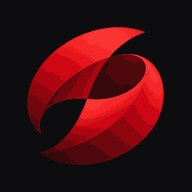
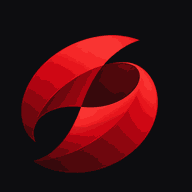
Optically centre the mark, because equal margins are not centred
Claude Desktop draws connector icons in a small dark rounded tile, and
FailEcho's sat high in it with a gap underneath. The bounding box was
exactly centred; the mark is an asymmetric crescent with a tail, so its
visual weight was about 3% right and 5% high. Invisible at full size,
obvious at 40 pixels.

The build now places the mark by weight rather than by box, and weights by
how far each pixel stands out from the dark ground rather than by opacity.
That distinction is the whole fix: the bright lobe pulls the eye far harder
than the dark tail, but both are equally opaque, so an opacity-weighted
correction came out at less than half what the eye was asking for. I
shipped that half-correction first and it was still visibly high.
apple-touch-icon went from x+2.9% y-4.3% to x-0.3% y-0.1%.

The shift is clamped to the reserved margin, so balance can never push a
stroke into a rounded corner.

test_the_square_icons_are_centred asserted equal margins, which is what I
had just deliberately broken, so it failed -- correctly. It now measures
where the weight is, allows a lopsided box, and keeps a floor of four
pixels on every side, because a mark jammed against an edge is the older
bug this test was written for. It also measures the same way the build
does; before, the test weighted by opacity and the build by contrast, and
the two disagreed by 2% while both claimed to centre the same icon.

Claude-Session: https://claude.ai/code/session_01RfRZmEaMiTrRNGhaab4aJv

Changed region(s): [[0.0938, 0.125, 0.875, 0.9062]]

diff --git a/tests/test_branding.py b/tests/test_branding.py
@@ -563,11 +563,23 @@ def test_openapi_description_leads_with_ai_agents(client):
 
 
 def test_the_square_icons_are_centred():
-    """The mark sits in the middle of every square icon.
+    """The mark *looks* like it sits in the middle of every square icon.
 
-    An off-centre master once went straight into the favicon, because faint
-    anti-aliasing made the whole canvas count as content and the build's trim
-    step did nothing. Measure visible pixels only, as the build now does.
+    Two separate bugs live here. An off-centre master once went straight into
+    the favicon, because faint anti-aliasing made the whole canvas count as
+    content and the build's trim step did nothing. Measure visible pixels
+    only, as the build does.
+
+    Then equal margins turned out not to mean centred. The mark is an
+    asymmetric crescent with a tail, so a perfectly centred bounding box put
+    its visual weight about 3% right and 5% high -- invisible at full size,
+    and plainly wrong in Claude Desktop's small dark connector tile, where it
+    sat high with a gap underneath.
+
+    So this checks the thing that was actually wrong: where the weight is.
+    The bounding box is allowed to be lopsided, and has to be, but only
+    within the margin the build reserves -- a mark shoved against an edge is
+    the first bug coming back.
     """
     import pytest
 
@@ -577,13 +589,36 @@ def test_the_square_icons_are_centred():
     static = Path(__file__).resolve().parents[1] / "app" / "web" / "static"
     for name in ("favicon.png", "apple-touch-icon.png"):
         icon = Image.open(static / name).convert("RGBA")
-        if icon.getchannel("A").getextrema()[0] == 255:
-            # Opaque icon: the mark is whatever differs from the backdrop.
-            ground = Image.new("RGB", icon.size, icon.getpixel((0, 0))[:3])
-            visible = ImageChops.difference(icon.convert("RGB"), ground).convert("L")
-        else:
-            visible = icon.getchannel("A")
-        left, top, right, bottom = visible.point(lambda v: 255 if v > 16 else 0).getbbox()
+        # One definition of "visible", the same one the build optimises: how
+        # far each pixel stands out from the dark ground the mark is drawn
+        # for. Weighting by opacity instead makes the bright lobe and the dark
+        # tail count equally, and the two measures then disagree by about 2%
+        # while both claim to be centring the same icon.
+        backdrop = Image.new("RGBA", icon.size, (13, 14, 16, 255))
+        flat = Image.alpha_composite(backdrop, icon).convert("RGB")
+        visible = ImageChops.difference(flat, backdrop.convert("RGB")).convert("L")
+        mask = visible.point(lambda v: 255 if v > 16 else 0)
+        left, top, right, bottom = mask.getbbox()
         width, height = icon.size
-        assert abs(left - (width - right)) <= 2, f"{name} off-centre horizontally"
-        assert abs(top - (height - bottom)) <= 2, f"{name} off-centre vertically"
+
+        # Weight, not box: sum where the ink is, as the eye does.
+        pixels = visible.load()
+        total = sum_x = sum_y = 0
+        for y in range(height):
+            for x in range(width):
+                weight = pixels[x, y]
+                if weight <= 16:
+                    continue
+                total += weight
+                sum_x += x * weight
+                sum_y += y * weight
+        assert total, f"{name} has no visible mark"
+        off_x = (sum_x / total - width / 2) / width
+        off_y = (sum_y / total - height / 2) / height
+        assert abs(off_x) < 0.015, f"{name} weight sits {off_x:+.1%} off horizontally"
+        assert abs(off_y) < 0.015, f"{name} weight sits {off_y:+.1%} off vertically"
+
+        # And the first bug: nothing jammed against an edge.
+        assert min(left, top, width - right, height - bottom) >= 4, (
+            f"{name} touches its edge; a rounded crop would clip it"
+        )

diff --git a/scripts/build_brand_assets.py b/scripts/build_brand_assets.py
@@ -90,22 +90,72 @@ def fit_width(image: Image.Image, width: int) -> Image.Image:
     return image.resize((width, height), Image.LANCZOS)
 
 
-def square(image: Image.Image, size: int, margin: float = 0.08) -> Image.Image:
-    """Centre the mark on a transparent square canvas.
+def optical_centre(image: Image.Image, ground: tuple[int, int, int]) -> tuple[float, float]:
+    """Where the mark *looks* like it sits, against the ground it will sit on.
+
+    Weighted by how far each pixel stands out from the ground rather than by
+    opacity: this mark's bright lobe pulls the eye far harder than its dark
+    tail, and an opacity-weighted centre barely moves because both are equally
+    solid. Measured that way the correction came out at less than half what
+    the eye was asking for.
+    """
+    flat = Image.alpha_composite(
+        Image.new("RGBA", image.size, (*ground, 255)), image
+    ).convert("RGB")
+    pixels = flat.load()
+    alpha = image.getchannel("A").load()
+    total = sum_x = sum_y = 0
+    for y in range(image.height):
+        for x in range(image.width):
+            if alpha[x, y] <= SOLID_ALPHA:
+                continue
+            r, g, b = pixels[x, y]
+            weight = abs(r - ground[0]) + abs(g - ground[1]) + abs(b - ground[2])
+            if weight < 24:
+                continue
+            total += weight
+            sum_x += x * weight
+            sum_y += y * weight
+    if not total:
+        return image.width / 2, image.height / 2
+    return sum_x / total, sum_y / total
+
+
+def square(
+    image: Image.Image,
+    size: int,
+    margin: float = 0.08,
+    ground: tuple[int, int, int] = BACKDROP,
+) -> Image.Image:
+    """Place the mark on a transparent square canvas, optically centred.
 
     Padding, never stretching: a distorted logo is worse than a small one. The
     margin keeps the strokes off the edge, where browsers and search results
     tend to crop or round the corners.
+
+    Centred by visual weight, not by bounding box. The mark is an asymmetric
+    crescent with a tail, so equal margins put its weight about 3% right and
+    5% high -- which is invisible at full size and obvious in a small tile.
+    Claude Desktop draws connector icons in a dark rounded square, and there
+    it read as sitting high with a gap underneath.
+
+    The shift is clamped to the margin, so balancing it can never push a
+    stroke off the canvas or into a rounded corner.
     """
     inner = round(size * (1 - 2 * margin))
     scaled = (
         fit_width(image, inner) if image.width >= image.height
         else fit_height(image, inner)
     )
+    base_x = (size - scaled.width) / 2
+    base_y = (size - scaled.height) / 2
+
+    mass_x, mass_y = optical_centre(scaled, ground)
+    shift_x = max(-base_x, min(base_x, size / 2 - (base_x + mass_x)))
+    shift_y = max(-base_y, min(base_y, size / 2 - (base_y + mass_y)))
+
     canvas = Image.new("RGBA", (size, size), (0, 0, 0, 0))
-    canvas.alpha_composite(
-        scaled, ((size - scaled.width) // 2, (size - scaled.height) // 2)
-    )
+    canvas.alpha_composite(scaled, (round(base_x + shift_x), round(base_y + shift_y)))
     return canvas
 
 
